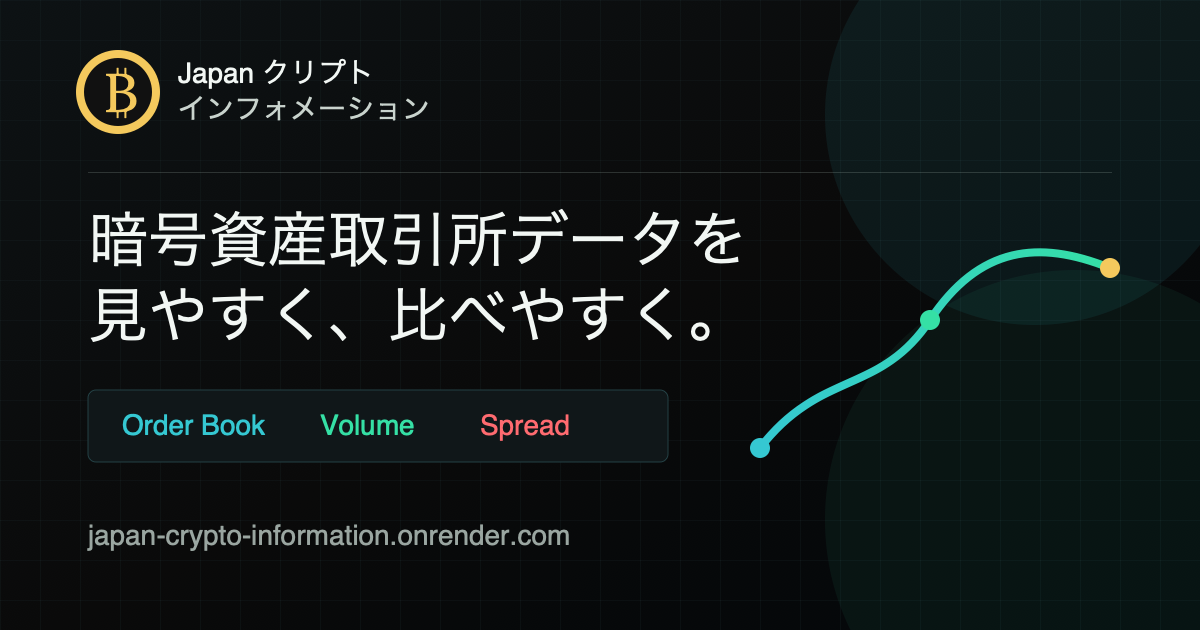
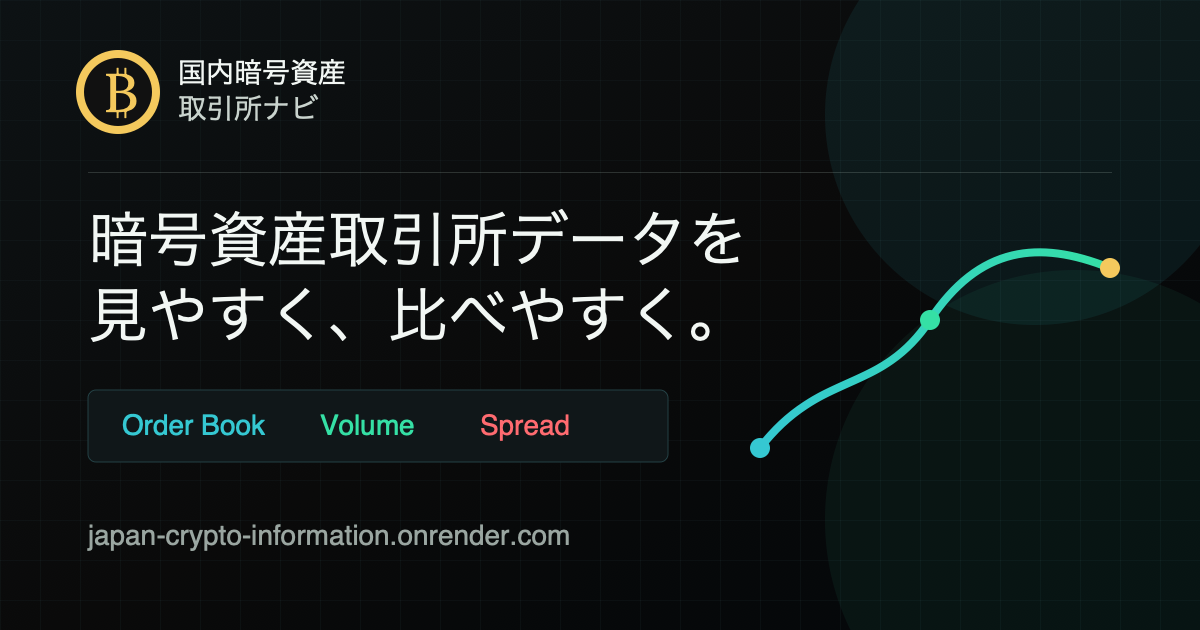
chore: rename site to 国内暗号資産取引所ナビ

Changed region(s): [[0.1542, 0.0905, 0.37, 0.2111]]

diff --git a/lib/server/site-content-service.js b/lib/server/site-content-service.js
@@ -1,5 +1,6 @@
 const fs = require('fs');
 const path = require('path');
+const { SITE_NAME } = require('../schema');
 
 const HEAD_META_INJECT = '<!-- HEAD_META_INJECT -->';
 const ARTICLE_JSON_LD_INJECT = '<!-- ARTICLE_JSON_LD_INJECT -->';
@@ -258,7 +259,7 @@ function createSiteContentService({
       '<?xml version="1.0" encoding="UTF-8"?>',
       '<rss version="2.0">',
       '  <channel>',
-      '    <title>Japan クリプト インフォメーション</title>',
+      `    <title>${SITE_NAME}</title>`,
       `    <link>${xmlEscape(origin)}</link>`,
       '    <description>国内暗号資産取引所の板情報、出来高シェア、販売所スプレッドを確認できます。</description>',
       '    <language>ja-JP</language>',
@@ -311,7 +312,7 @@ function createSiteContentService({
       },
       publisher: {
         '@type': 'Organization',
-        name: 'Japan クリプト インフォメーション',
+        name: SITE_NAME,
       },
     };
   }
@@ -323,7 +324,7 @@ function createSiteContentService({
   function renderArticleHtml(req, article) {
     const origin = requestOrigin(req);
     const template = fs.readFileSync(path.join(publicDir, 'templates', 'article.html'), 'utf8');
-    const title = `${article.title}｜Japan クリプト インフォメーション`;
+    const title = `${article.title}｜${SITE_NAME}`;
     const withHead = template
       .replace(HEAD_META_INJECT, renderHeadMeta({
         title,
@@ -363,7 +364,7 @@ function createSiteContentService({
         },
         isPartOf: {
           '@type': 'WebSite',
-          name: 'Japan クリプト インフォメーション',
+          name: SITE_NAME,
           url: origin,
         },
       },
@@ -393,7 +394,7 @@ function createSiteContentService({
           {
             '@type': 'ListItem',
             position: 1,
-            name: 'Japan クリプト インフォメーション',
+            name: SITE_NAME,
             item: siteUrl(origin, '/'),
           },
           {
@@ -425,7 +426,7 @@ function createSiteContentService({
         inLanguage: 'ja-JP',
         isPartOf: {
           '@type': 'WebSite',
-          name: 'Japan クリプト インフォメーション',
+          name: SITE_NAME,
           url: origin,
         },
       },
@@ -448,7 +449,7 @@ function createSiteContentService({
           {
             '@type': 'ListItem',
             position: 1,
-            name: 'Japan クリプト インフォメーション',
+            name: SITE_NAME,
             item: siteUrl(origin, '/'),
           },
           {
@@ -607,7 +608,7 @@ function createSiteContentService({
     const origin = requestOrigin(req);
     const model = buildMarketIndexModel();
     const template = fs.readFileSync(path.join(publicDir, 'markets.html'), 'utf8');
-    const title = '国内暗号資産 銘柄ページ一覧｜Japan クリプト インフォメーション';
+    const title = `国内暗号資産 銘柄ページ一覧｜${SITE_NAME}`;
     const description = 'BTC/JPY、ETH/JPY、XRP/JPYなど国内暗号資産取引所で扱う銘柄ページを一覧化。各銘柄の板、出来高シェア、販売所スプレッド、取引所別比較へ移動できます。';
 
     return template
@@ -630,7 +631,7 @@ function createSiteContentService({
   function renderMarketHtml(req, market) {
     const origin = requestOrigin(req);
     const template = fs.readFileSync(path.join(publicDir, 'market.html'), 'utf8');
-    const title = `${market.label} 板・出来高シェア・販売所スプレッド比較｜Japan クリプト インフォメーション`;
+    const title = `${market.label} 板・出来高シェア・販売所スプレッド比較｜${SITE_NAME}`;
     const description = `${market.label} の国内暗号資産取引所データを集約。板情報、出来高シェア、販売所スプレッド、取引所別の成行コストを1ページで確認できます。`;
     const aboutArticle = getArticle('about') || listArticles()[0] || null;
     const pageConfig = {

diff --git a/lib/schema.js b/lib/schema.js
@@ -8,7 +8,7 @@ const {
   BITTRADE_EXCHANGE_ID,
 } = require('./exchanges');
 
-const SITE_NAME = 'Japan クリプト インフォメーション';
+const SITE_NAME = '国内暗号資産取引所ナビ';
 const DEFAULT_SITE_ORIGIN = 'http://localhost:3000';
 const LANGUAGE = 'ja-JP';
 
@@ -17,7 +17,7 @@ const PAGE_CONFIGS = {
     pageId: 'home',
     path: '/',
     name: '成行取引リアルタイム板シミュレーター',
-    title: '成行注文シミュレーター｜BTC・ETH国内取引所リアルタイム板｜Japan クリプト インフォメーション',
+    title: '成行注文シミュレーター｜BTC・ETH国内取引所リアルタイム板｜国内暗号資産取引所ナビ',
     description: '日本の暗号資産取引所の板情報をリアルタイムに取得し、成行注文の執行価格・スリッページ・マーケットインパクトをシミュレーション。OKJ・Coincheck・bitFlyer・bitbank・GMOコイン・Binance Japan対応。',
     ogImagePath: '/ogp/simulator.png',
   },
@@ -25,7 +25,7 @@ const PAGE_CONFIGS = {
     pageId: 'volume-share',
     path: '/volume-share',
     name: '出来高シェア',
-    title: '国内暗号資産取引所 出来高シェア比較｜Japan クリプト インフォメーション',
+    title: '国内暗号資産取引所 出来高シェア比較｜国内暗号資産取引所ナビ',
     description: '国内主要取引所のBTC・ETH他銘柄の出来高シェアを日次・週次・月次で可視化。どの取引所に流動性が集まっているかをデータで確認。',
     ogImagePath: '/ogp/volume-share.png',
     datasetName: '国内暗号資産取引所 出来高シェアデータセット',
@@ -35,7 +35,7 @@ const PAGE_CONFIGS = {
     pageId: 'sales-spread',
     path: '/sales-spread',
     name: '販売所スプレッド',
-    title: '販売所スプレッド比較｜Coincheck・bitFlyer・GMOコイン｜Japan クリプト インフォメーション',
+    title: '販売所スプレッド比較｜Coincheck・bitFlyer・GMOコイン｜国内暗号資産取引所ナビ',
     description: '国内販売所の買値・売値スプレッドをリアルタイム比較。販売所と取引所の実効コスト差を可視化。',
     ogImagePath: '/ogp/sales-spread.png',
     datasetName: '国内暗号資産取引所 販売所スプレッドデータセット',

diff --git a/public/admin-analytics.html b/public/admin-analytics.html
@@ -4,7 +4,7 @@
   <meta charset="UTF-8">
   <meta name="viewport" content="width=device-width, initial-scale=1.0">
   <meta name="robots" content="noindex,nofollow">
-  <title>アクセス解析 | Japan クリプト インフォメーション</title>
+  <title>アクセス解析 | 国内暗号資産取引所ナビ</title>
   <script src="https://cdn.tailwindcss.com"></script>
   <link rel="preconnect" href="https://fonts.googleapis.com">
   <link rel="preconnect" href="https://fonts.gstatic.com" crossorigin>
@@ -17,7 +17,7 @@
     <div class="brand-cluster">
       <div class="brand-mark" aria-hidden="true">₿</div>
       <div class="brand-copy min-w-0">
-        <h1 class="page-title">Japan クリプト インフォメーション</h1>
+        <h1 class="page-title">国内暗号資産取引所ナビ</h1>
         <div class="brand-subtitle">アクセス解析</div>
       </div>
     </div>
@@ -100,7 +100,7 @@
     </div>
   </main>
 
-  <footer class="border-t border-gray-800 px-6 py-2 text-xs text-gray-600 text-center">Japan クリプト インフォメーション | アクセス解析</footer>
+  <footer class="border-t border-gray-800 px-6 py-2 text-xs text-gray-600 text-center">国内暗号資産取引所ナビ | アクセス解析</footer>
 
   <script src="/js/formatter.js?v=analytics-1"></script>
   <script src="/js/app-utils.js?v=app-utils-1"></script>

diff --git a/public/sales-spread.html b/public/sales-spread.html
@@ -17,7 +17,7 @@
     <div class="brand-cluster">
       <div class="brand-mark" aria-hidden="true">₿</div>
       <div class="brand-copy min-w-0">
-        <h1 class="page-title">Japan クリプト インフォメーション</h1>
+        <h1 class="page-title">国内暗号資産取引所ナビ</h1>
         <div class="brand-subtitle">国内取引所 販売所スプレッド</div>
       </div>
     </div>
@@ -87,7 +87,7 @@
     </section>
   </main>
 
-  <footer class="border-t border-gray-800 px-6 py-2 text-xs text-gray-600 text-center">Japan クリプト インフォメーション | 販売所価格はJPY建て、スプレッド率は仲値比です</footer>
+  <footer class="border-t border-gray-800 px-6 py-2 text-xs text-gray-600 text-center">国内暗号資産取引所ナビ | 販売所価格はJPY建て、スプレッド率は仲値比です</footer>
 
   <script src="/js/beginner-mode.js?v=2"></script>
   <script src="js/formatter.js?v=sales-spread-1"></script>

diff --git a/public/volume-share.html b/public/volume-share.html
@@ -17,7 +17,7 @@
     <div class="brand-cluster">
       <div class="brand-mark" aria-hidden="true">₿</div>
       <div class="brand-copy min-w-0">
-        <h1 class="page-title">Japan クリプト インフォメーション</h1>
+        <h1 class="page-title">国内暗号資産取引所ナビ</h1>
         <div class="brand-subtitle">国内取引所 出来高シェア</div>
       </div>
     </div>
@@ -113,7 +113,7 @@
     </div>
   </main>
 
-  <footer class="border-t border-gray-800 px-6 py-2 text-xs text-gray-600 text-center">Japan クリプト インフォメーション | 出来高はJPY換算です</footer>
+  <footer class="border-t border-gray-800 px-6 py-2 text-xs text-gray-600 text-center">国内暗号資産取引所ナビ | 出来高はJPY換算です</footer>
 
   <script src="/js/beginner-mode.js?v=2"></script>
   <script src="js/formatter.js?v=volume-share-1"></script>

diff --git a/public/markets.html b/public/markets.html
@@ -16,7 +16,7 @@
     <div class="brand-cluster">
       <div class="brand-mark" aria-hidden="true">₿</div>
       <div class="brand-copy min-w-0">
-        <h1 class="page-title">Japan クリプト インフォメーション</h1>
+        <h1 class="page-title">国内暗号資産取引所ナビ</h1>
         <div class="brand-subtitle">国内暗号資産 銘柄ページ</div>
       </div>
     </div>
@@ -68,7 +68,7 @@
     </section>
   </main>
 
-  <footer class="border-t border-gray-800 px-6 py-2 text-xs text-gray-600 text-center">Japan クリプト インフォメーション | 銘柄ページ</footer>
+  <footer class="border-t border-gray-800 px-6 py-2 text-xs text-gray-600 text-center">国内暗号資産取引所ナビ | 銘柄ページ</footer>
 
   <script>window.MARKETS_INDEX = __MARKETS_INDEX_JSON__;</script>
   <script src="/js/beginner-mode.js?v=2"></script>

diff --git a/public/templates/article.html b/public/templates/article.html
@@ -18,7 +18,7 @@
     <div class="brand-cluster">
       <div class="brand-mark" aria-hidden="true">₿</div>
       <div class="brand-copy min-w-0">
-        <h1 class="page-title">Japan クリプト インフォメーション</h1>
+        <h1 class="page-title">国内暗号資産取引所ナビ</h1>
         <div class="brand-subtitle">記事</div>
       </div>
     </div>
@@ -63,6 +63,6 @@
     </section>
   </main>
 
-  <footer class="border-t border-gray-800 px-6 py-2 text-xs text-gray-600 text-center">Japan クリプト インフォメーション | 記事</footer>
+  <footer class="border-t border-gray-800 px-6 py-2 text-xs text-gray-600 text-center">国内暗号資産取引所ナビ | 記事</footer>
 </body>
 </html>

diff --git a/public/js/market-page.js b/public/js/market-page.js
@@ -82,7 +82,7 @@ document.addEventListener('DOMContentLoaded', () => {
   function updatePageLabels() {
     const label = marketLabel();
     const navLink = $('market-page-nav-link');
-    document.title = `${label} 板・出来高シェア・販売所スプレッド比較｜Japan クリプト インフォメーション`;
+    document.title = `${label} 板・出来高シェア・販売所スプレッド比較｜国内暗号資産取引所ナビ`;
     setText('market-page-title', `${label} 銘柄ページ`);
     setText('market-page-subtitle', '板・出来高シェア・販売所スプレッド');
     setText('market-hero-title', `${label} 国内取引所データ`);

diff --git a/lib/content.js b/lib/content.js
@@ -1,6 +1,7 @@
 const fs = require('fs');
 const path = require('path');
 const { marked, Renderer } = require('marked');
+const { SITE_NAME } = require('./schema');
 
 const CONTENT_DIR = path.join(__dirname, '..', 'content');
 
@@ -120,7 +121,7 @@ function buildArticle(filePath) {
     description: frontmatter.description || frontmatter.excerpt || '',
     date,
     updated,
-    author: frontmatter.author || 'Japan クリプト インフォメーション',
+    author: frontmatter.author || SITE_NAME,
     html: renderMarkdown(body),
     sourcePath: filePath,
   };

diff --git a/public/market.html b/public/market.html
@@ -178,7 +178,7 @@
     </section>
   </main>
 
-  <footer class="border-t border-gray-800 px-6 py-2 text-xs text-gray-600 text-center">Japan クリプト インフォメーション | <span id="market-footer-label">銘柄ページ</span></footer>
+  <footer class="border-t border-gray-800 px-6 py-2 text-xs text-gray-600 text-center">国内暗号資産取引所ナビ | <span id="market-footer-label">銘柄ページ</span></footer>
 
   <script>window.MARKET_PAGE = __MARKET_PAGE_JSON__;</script>
   <script src="/js/beginner-mode.js?v=2"></script>

diff --git a/content/about.md b/content/about.md
@@ -1,12 +1,12 @@
 ---
 title: サイトについて
-description: Japan クリプト インフォメーションの目的、データソース、運営ポリシー、免責事項をまとめたページです。
+description: 国内暗号資産取引所ナビの目的、データソース、運営ポリシー、免責事項をまとめたページです。
 date: 2025-04-01
 updated: 2026-04-19
-author: Japan クリプト インフォメーション
+author: 国内暗号資産取引所ナビ
 ---
 
-Japan クリプト インフォメーションは、国内暗号資産取引所の板情報、出来高、販売所スプレッドを比較しやすくするためのデータ可視化サイトです。
+国内暗号資産取引所ナビは、国内暗号資産取引所の板情報、出来高、販売所スプレッドを比較しやすくするためのデータ可視化サイトです。
 
 データは各取引所が公開するAPIやWebSocketから取得し、OKJ、Coincheck、bitFlyer、bitbank、GMOコイン、Binance Japanなどの情報を用途別に整理します。表示内容は可能な限り機械的に処理し、特定の取引所や銘柄を推奨しない方針です。
 
